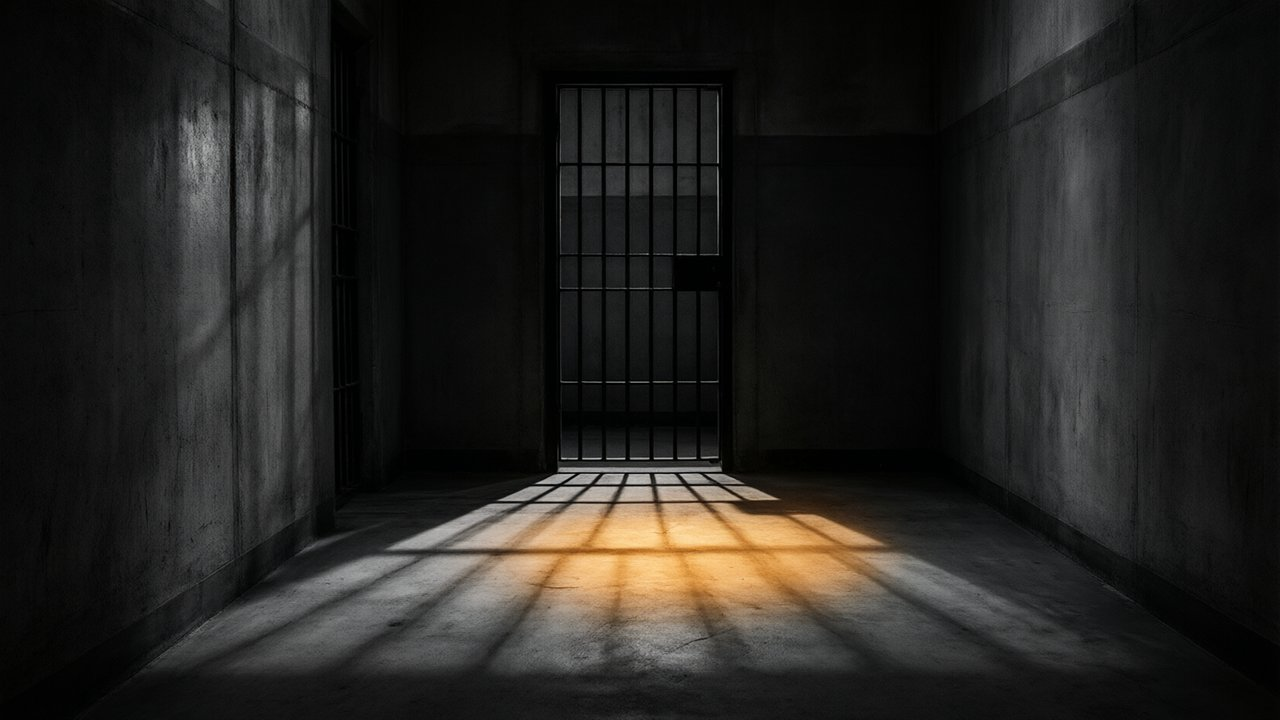
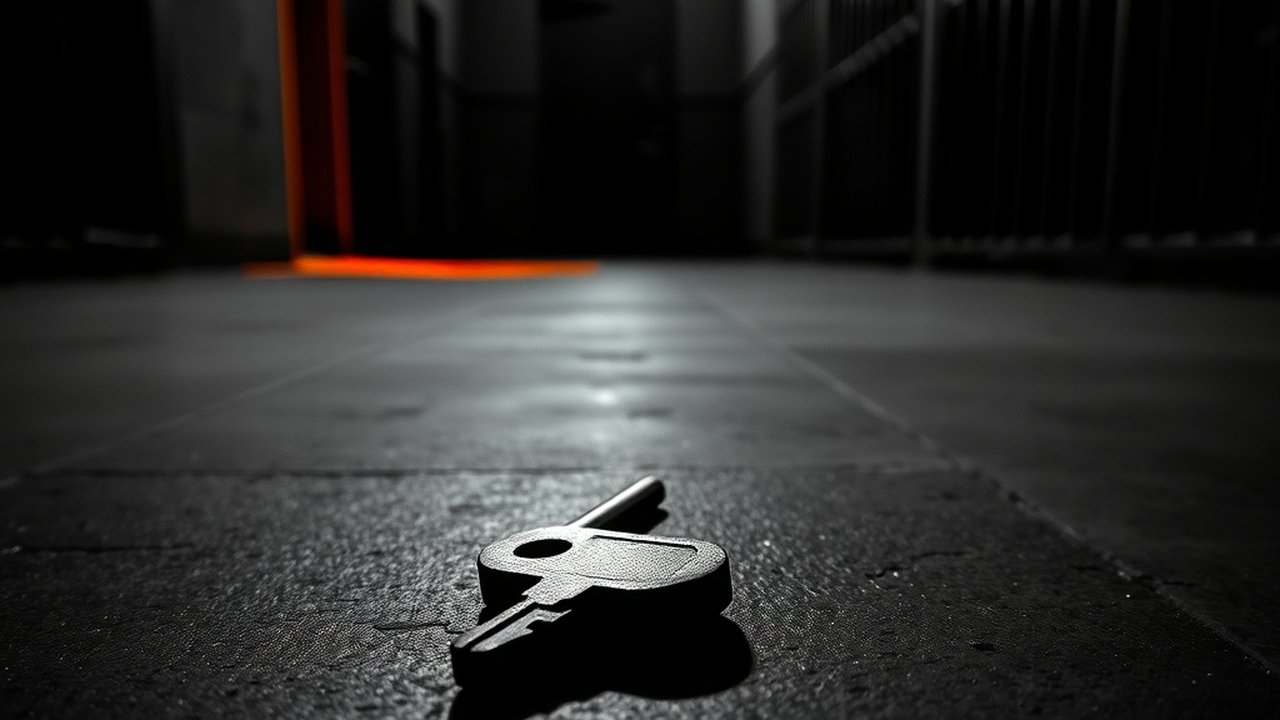
chore: fecha o working tree sem credenciais
Atualiza o contador do estilo do Peter, o cache do service worker e as thumbnails de 2026-08-05. free-api.md fica de fora e entra no gitignore porque contém chaves de API.

diff --git a/public/sw.js b/public/sw.js
@@ -1,5 +1,5 @@
 /* Service Worker — Vale da Liberdade PWA */
-const CACHE = "vld-v1-202609021244";
+const CACHE = "vld-v1-202609212107";
 // Shell estático. IMPORTANTE (2026-08-16): NÃO precachear "./assets/css/*.css"
 // nem "./assets/js/*.js" SEM o ?v= de versão. O Cloudflare guarda a URL sem
 // versão com TTL de 1 ano (max-age=31536000) e pode servir conteúdo antigo
